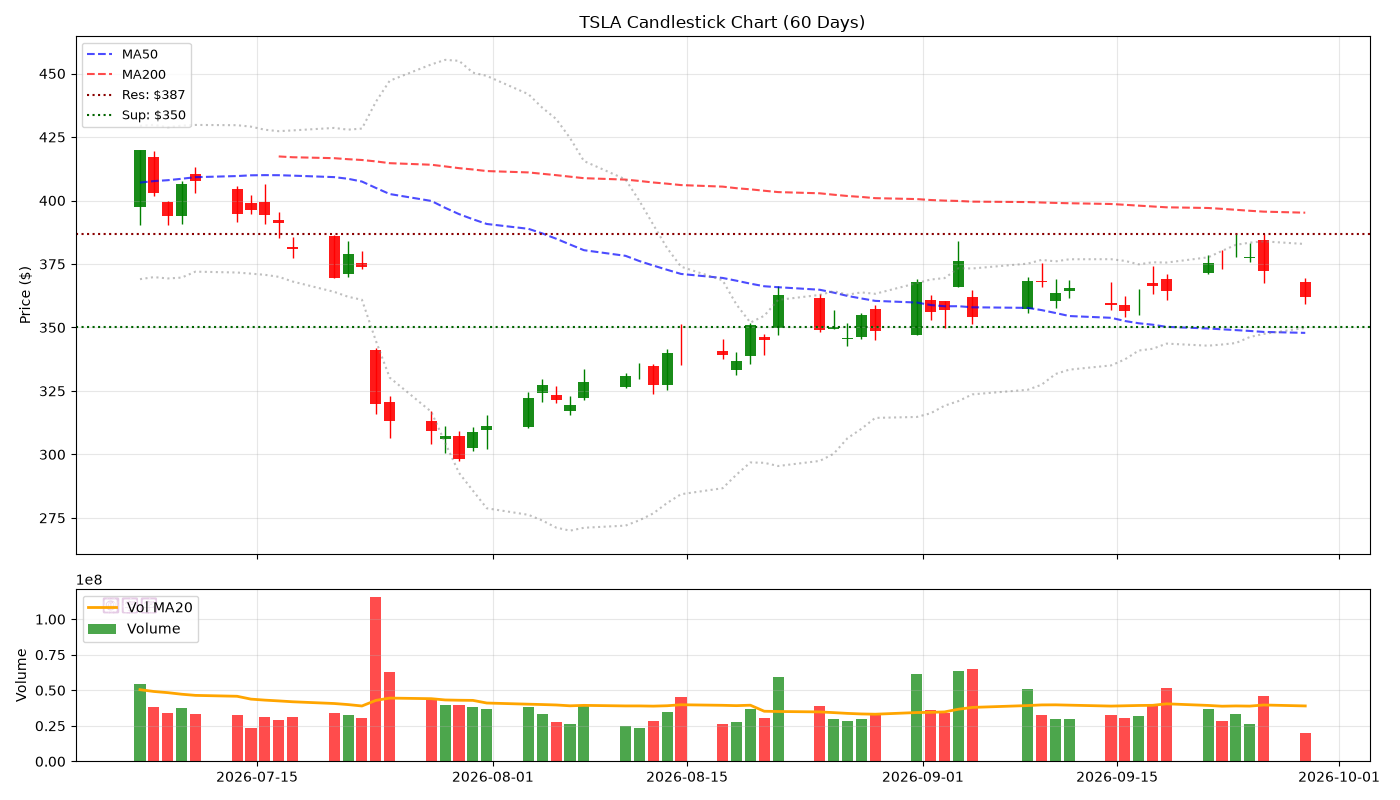
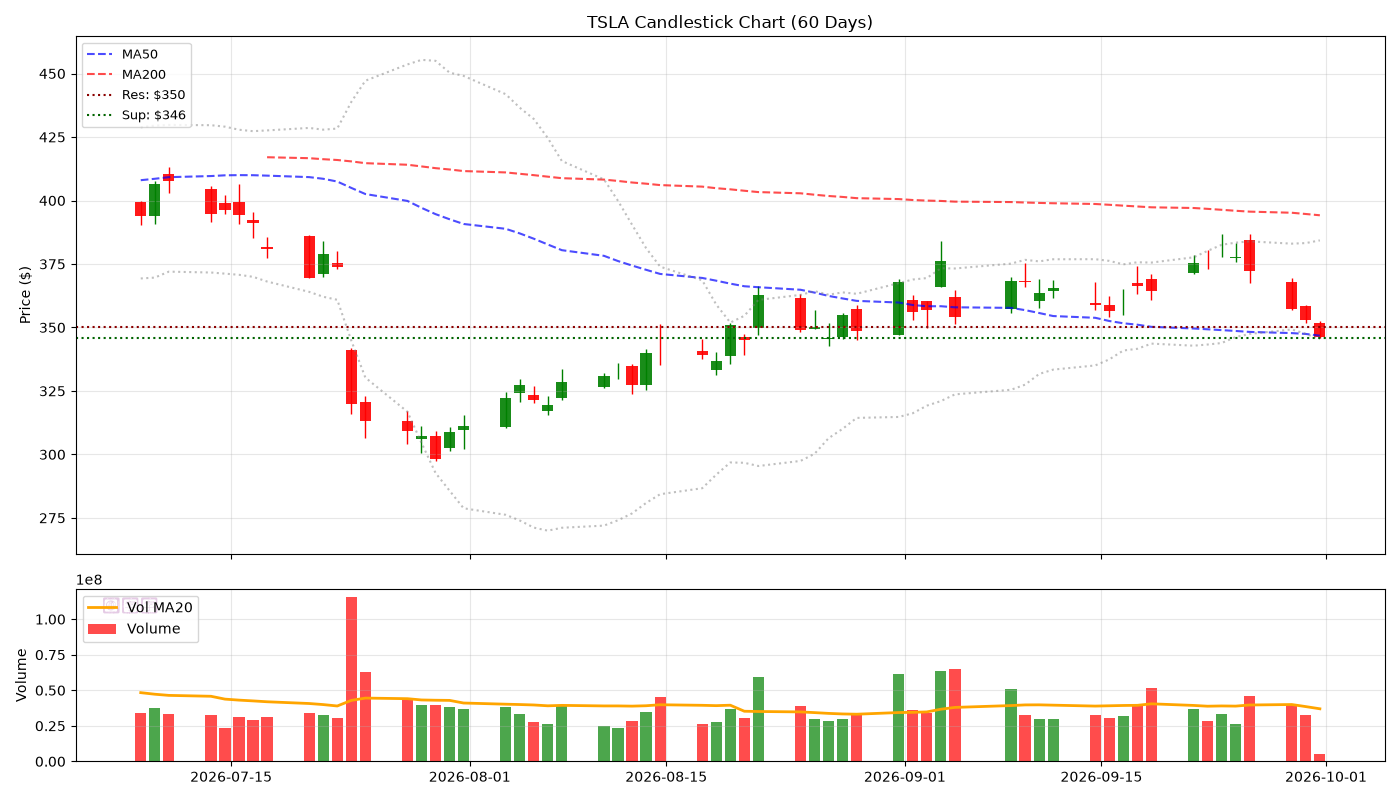
feat(v5): 2026-09-30 Candlestick

diff --git a/reports/2026-09-30.md b/reports/2026-09-30.md
@@ -1,0 +1,85 @@
+# 🕯 Hermes V5 陰陽燭專業日報 - 2026-09-30
+> **生成時間**: 2026-09-30 21:46:19 | **圖表**: 正宗陰陽燭 + Volume
+
+---
+
+## 📊 核心數據
+
+| 股票 | 價格 | 漲跌% | RSI | 成交量 | 阻力 | 支撐 |
+|------|------|-------|-----|--------|------|------|
+| SNDK | $1724.90 | -0.28% | 51.9 | 💤 | $1909 | $1700 |
+| MU | $1069.85 | +0.45% | 65.1 | 💤 | $1100 | $1050 |
+| SOXL | $148.19 | +0.81% | 65.7 | 💤 | $150 | $100 |
+| TSLA | $346.18 | -1.89% | 37.9 | 💤 | $350 | $346 |
+| APP | $301.13 | -1.48% | 43.1 | 💤 | $338 | $300 |
+| NOW | $132.00 | +1.58% | 51.1 | 💤 | $148 | $127 |
+| CAT | $819.16 | -0.90% | 55.3 | 💤 | $832 | $800 |
+| AMAT | $513.81 | +0.35% | 71.0 | 💤 | $515 | $500 |
+| NOK | $10.35 | -0.10% | 46.9 | 💤 | $11 | $10 |
+| ALAB | $361.92 | +1.14% | 70.7 | 💤 | $378 | $350 |
+
+---
+
+## 📈 個股陰陽燭分析
+
+### SNDK ($1724.90, -0.28%)
+![Candlestick](../charts/SNDK.png)
+
+- **RSI**: 51.9 | **Vol**: LOW
+- **關鍵位**: 阻力 $1909.48 | 支撐 $1700.00
+
+### MU ($1069.85, +0.45%)
+![Candlestick](../charts/MU.png)
+
+- **RSI**: 65.1 | **Vol**: LOW
+- **關鍵位**: 阻力 $1100.00 | 支撐 $1050.00
+
+### SOXL ($148.19, +0.81%)
+![Candlestick](../charts/SOXL.png)
+
+- **RSI**: 65.7 | **Vol**: LOW
+- **關鍵位**: 阻力 $150.00 | 支撐 $100.00
+
+### TSLA ($346.18, -1.89%)
+![Candlestick](../charts/TSLA.png)
+
+- **RSI**: 37.9 | **Vol**: LOW
+- **關鍵位**: 阻力 $350.00 | 支撐 $346.00
+
+### APP ($301.13, -1.48%)
+![Candlestick](../charts/APP.png)
+
+- **RSI**: 43.1 | **Vol**: LOW
+- **關鍵位**: 阻力 $338.34 | 支撐 $300.00
+
+### NOW ($132.00, +1.58%)
+![Candlestick](../charts/NOW.png)
+
+- **RSI**: 51.1 | **Vol**: LOW
+- **關鍵位**: 阻力 $147.57 | 支撐 $126.75
+
+### CAT ($819.16, -0.90%)
+![Candlestick](../charts/CAT.png)
+
+- **RSI**: 55.3 | **Vol**: LOW
+- **關鍵位**: 阻力 $831.95 | 支撐 $800.00
+
+### AMAT ($513.81, +0.35%)
+![Candlestick](../charts/AMAT.png)
+
+- **RSI**: 71.0 | **Vol**: LOW
+- **關鍵位**: 阻力 $515.42 | 支撐 $500.00
+
+### NOK ($10.35, -0.10%)
+![Candlestick](../charts/NOK.png)
+
+- **RSI**: 46.9 | **Vol**: LOW
+- **關鍵位**: 阻力 $11.17 | 支撐 $9.54
+
+### ALAB ($361.92, +1.14%)
+![Candlestick](../charts/ALAB.png)
+
+- **RSI**: 70.7 | **Vol**: LOW
+- **關鍵位**: 阻力 $377.87 | 支撐 $350.00
+
+*Generated by Hermes Agent V5 (Candlestick Pro)*

diff --git a/index.md b/index.md
@@ -1,12 +1,12 @@
 # 🌍 Hermes V5 陰陽燭情報中心
-> **更新**: 2026-09-29 00:30:54
+> **更新**: 2026-09-30 21:46:19
 
 | 股票 | 價格 | 漲跌% | RSI | Vol |
 |------|------|-------|-----|-----|
-| SNDK | $1716.66 | -3.44% | 48.8 | 💤 |
-| MU | $1053.96 | -2.62% | 57.3 | 💤 |
-| SOXL | $143.07 | -5.53% | 59.0 | 💤 |
-| TSLA | $361.90 | -2.74% | 44.9 | 💤 |
-| APP | $309.11 | -0.53% | 48.6 | 💤 |
+| SNDK | $1724.90 | -0.28% | 51.9 | 💤 |
+| MU | $1069.85 | +0.45% | 65.1 | 💤 |
+| SOXL | $148.19 | +0.81% | 65.7 | 💤 |
+| TSLA | $346.18 | -1.89% | 37.9 | 💤 |
+| APP | $301.13 | -1.48% | 43.1 | 💤 |
 
-📖 [查看完整陰陽燭報告](reports/2026-09-29.md)
+📖 [查看完整陰陽燭報告](reports/2026-09-30.md)
